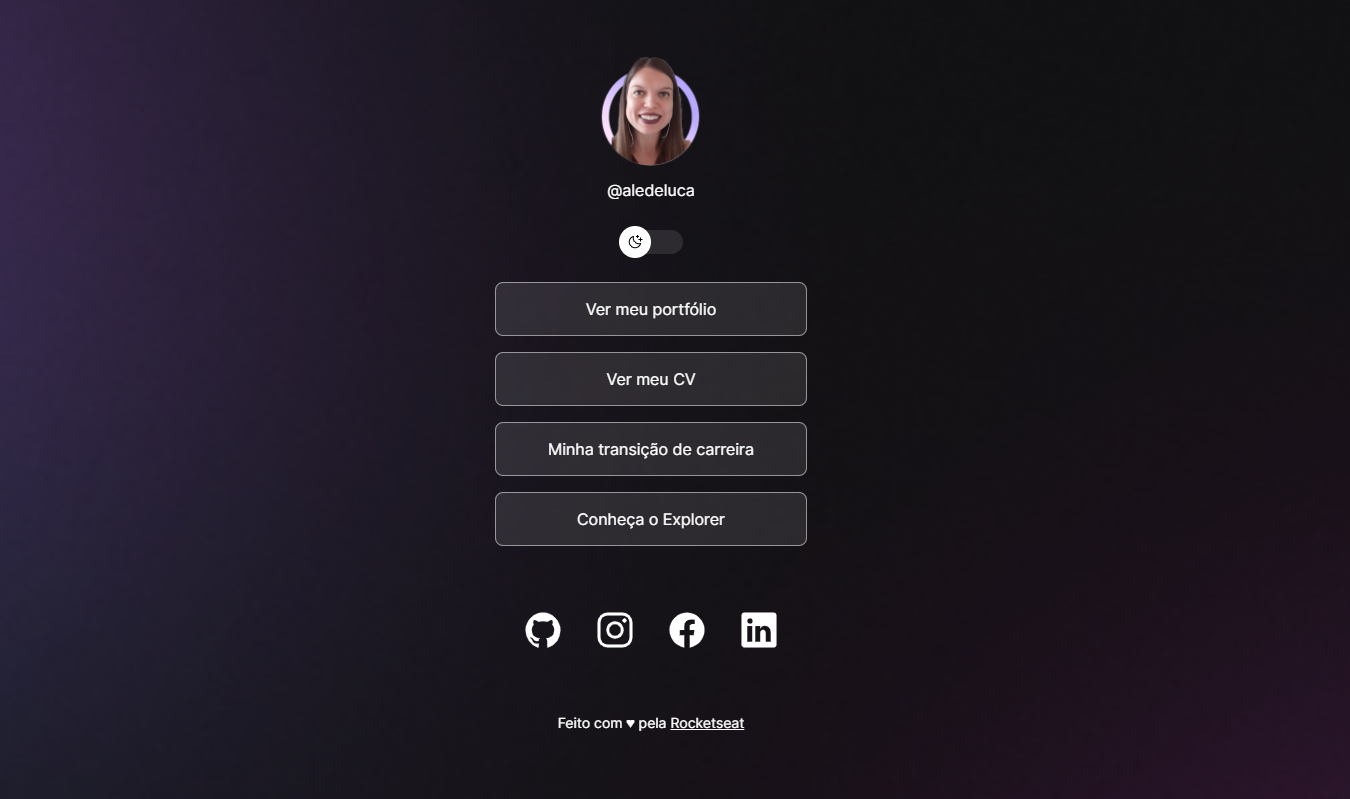
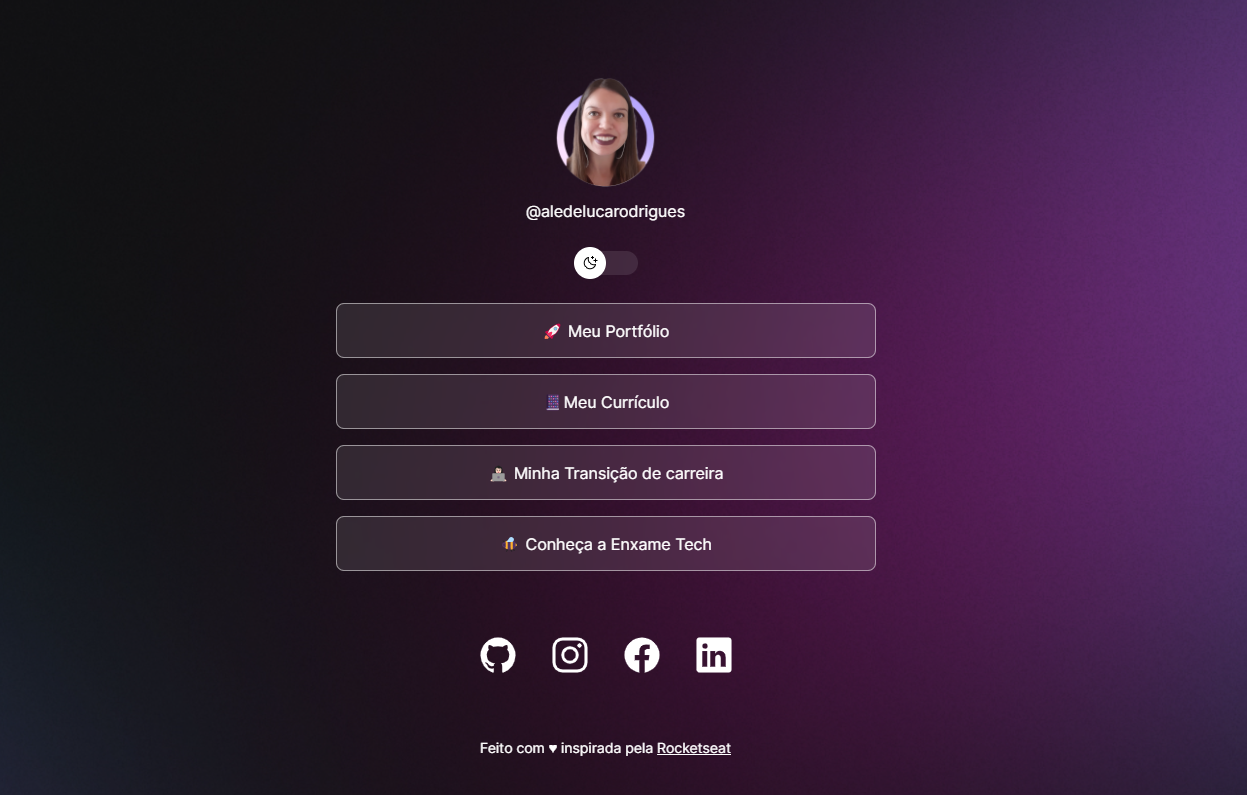
Ajustes Textos Links + Preview

diff --git a/index.html b/index.html
@@ -14,7 +14,7 @@
     <div id="container">
         <div id="profile">
             <img src="./assets/avatar.png" alt="foto de Ale de Luca sorrindo, cabelos compridos castanhos claros e usando fone de ouvido branco." />
-            <p>@aledeluca</p>
+            <p>@aledelucarodrigues</p>
         </div>
 
         <div id="switch" onclick="toggleMode()">
@@ -24,16 +24,16 @@
 
         <ul>
             <li>
-                <a href="https://www.github.com/aledelucarodrigues" target="_blank">Ver meu portfólio</a>
+                <a href="https://www.github.com/aledelucarodrigues" target="_blank"> 🚀 Meu Portfólio</a>
             </li>
             <li>
-                <a href="./assets/CV_Alessandra Rodrigues_FullStack.pdf" target="_blank">Ver meu CV</a>
+                <a href="./assets/CV_Alessandra Rodrigues_FullStack.pdf" target="_blank"> 📔Meu Currículo </a>
             </li>
             <li>
-                <a href="https://www.linkedin.com/pulse/transi%C3%A7%C3%A3o-de-carreira-eu-alessandra-de-luca-rodrigues-p06sf/" target="_blank">Minha transição de carreira</a>
+                <a href="https://www.linkedin.com/pulse/transi%C3%A7%C3%A3o-de-carreira-eu-alessandra-de-luca-rodrigues-p06sf/" target="_blank"> 👩🏻💻 Minha Transição de carreira</a>
             </li>
             <li>
-                <a href="https://rocketseat.com.br/explorer" target="_blank">Conheça o Explorer</a>
+                <a href="https://enxametech.onrender.com/" target="_blank">🐝 Conheça a Enxame Tech</a>
             </li>
         </ul>
 
@@ -56,7 +56,7 @@
         </div>
 
         <footer>
-            Feito com ♥ pela <a href="https://rocketseat.com.br" target="_blank">Rocketseat</a>
+            Feito com ♥ inspirada pela <a href="https://rocketseat.com.br" target="_blank">Rocketseat</a>
         </footer>
     </div>
 
